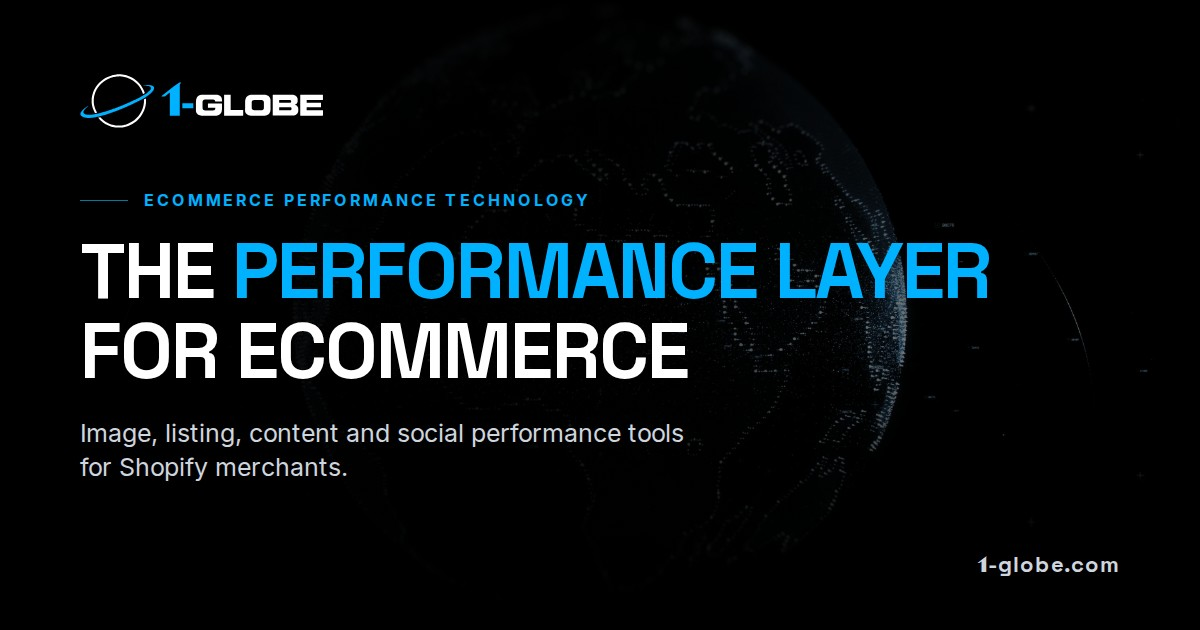
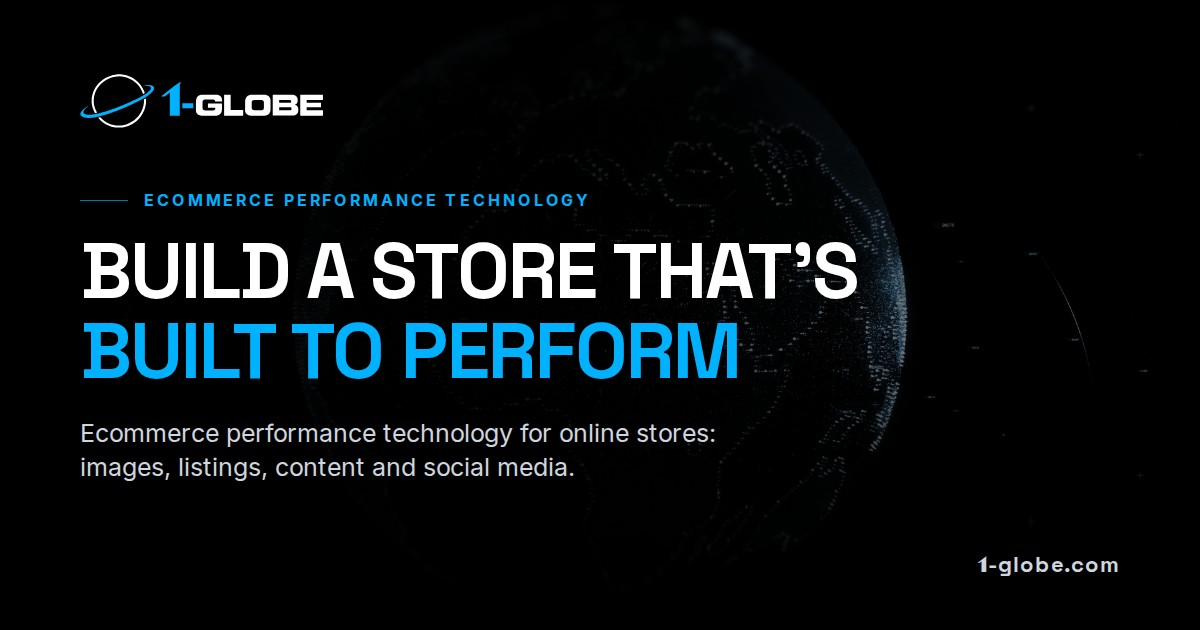
Approved copy update: new headlines, 1-OPTIMIZER live on Shopify, consistent status wording
Claude-Session: https://claude.ai/code/session_01KSFYk5MT1Bqrc69AhoFdrP

Changed region(s): [[0.0617, 0.3619, 0.8325, 0.4825], [0.0617, 0.5127, 0.6167, 0.6032], [0.0617, 0.6635, 0.5858, 0.7841]]

diff --git a/src/app/pricing/page.tsx b/src/app/pricing/page.tsx
@@ -3,6 +3,7 @@ import { buildMetadata } from '@/lib/seo'
 import { Section } from '@/components/shared/Section'
 import Link from 'next/link'
 import { AppName } from '@/components/shared/BrandLogo'
+import { OPTIMIZER_STATUS } from '@/lib/entities'
 
 export const metadata: Metadata = buildMetadata({
   title: '1-OPTIMIZER Pricing',
@@ -20,8 +21,8 @@ export default function PricingPage() {
             <div className="text-left mb-20 max-w-3xl">
               <span className="text-eyebrow block mb-6"><AppName name="1-OPTIMIZER" /></span>
               <h1 className="text-page-title mb-6">
-                Image performance{' '}<br />
-                <span className="text-primary">Without the subscription</span>
+                Pay for{' '}<br />
+                <span className="text-primary">what you use</span>
               </h1>
               <p className="text-lead">
                 Start with 100 free image optimizations. When you need more, buy one-time image credits that never expire.
@@ -48,7 +49,7 @@ export default function PricingPage() {
                 </div>
                 <div className="flex-1"></div>
                 <div className="w-full inline-flex items-center justify-center h-14 font-semibold text-xs bg-secondary text-muted-foreground cursor-not-allowed select-none mt-6">
-                  Coming soon to Shopify
+                  {OPTIMIZER_STATUS.short}
                 </div>
               </div>
 
@@ -67,7 +68,7 @@ export default function PricingPage() {
                   <p className="text-sm font-medium text-muted-foreground">$0.02 / image</p>
                 </div>
                 <div className="w-full inline-flex items-center justify-center h-14 font-semibold text-xs bg-secondary text-muted-foreground cursor-not-allowed select-none mt-6">
-                  Coming soon to Shopify
+                  {OPTIMIZER_STATUS.short}
                 </div>
               </div>
 
@@ -86,7 +87,7 @@ export default function PricingPage() {
                   <p className="text-sm font-medium text-muted-foreground">$0.02 / image</p>
                 </div>
                 <div className="w-full inline-flex items-center justify-center h-14 font-semibold text-xs bg-secondary text-muted-foreground cursor-not-allowed select-none mt-6">
-                  Coming soon to Shopify
+                  {OPTIMIZER_STATUS.short}
                 </div>
               </div>
 
@@ -105,7 +106,7 @@ export default function PricingPage() {
                   <p className="text-sm font-medium text-muted-foreground">$0.018 / image</p>
                 </div>
                 <div className="w-full inline-flex items-center justify-center h-14 font-semibold text-xs bg-secondary text-muted-foreground cursor-not-allowed select-none mt-6">
-                  Coming soon to Shopify
+                  {OPTIMIZER_STATUS.short}
                 </div>
               </div>
 
@@ -116,9 +117,9 @@ export default function PricingPage() {
             </p>
 
             <div className="border-t border-border pt-16 flex flex-col items-center text-center">
-              <h2 className="text-card-title uppercase mb-4"><AppName name="1-OPTIMIZER" /> is <span className="text-primary">coming soon</span></h2>
+              <h2 className="text-card-title uppercase mb-4"><AppName name="1-OPTIMIZER" /> is <span className="text-primary">live on Shopify</span></h2>
               <p className="text-muted-foreground leading-relaxed mb-8 max-w-lg">
-                We are finalizing our Shopify integration. Explore the full capabilities of 1-OPTIMIZER to see how it can help you build a stronger storefront foundation.
+                Installation activation is currently being finalized. Explore the full capabilities of 1-OPTIMIZER to see how it can help you build a stronger storefront foundation.
               </p>
               <Link
                 href="/apps/1-optimizer"

diff --git a/src/components/home/EditorialHero.tsx b/src/components/home/EditorialHero.tsx
@@ -44,17 +44,14 @@ export const EditorialHero: React.FC = () => {
           </div>
           
           <h1 className="font-heading font-bold text-5xl sm:text-[3.5rem] md:text-[4.25rem] lg:text-[4.75rem] tracking-tight leading-[1.05] uppercase text-white relative z-10">
-            THE{' '}<br />
-            <span className="text-primary">PERFORMANCE LAYER</span>{' '}<br />
-            FOR ECOMMERCE
+            BUILD A STORE{' '}<br />
+            THAT&rsquo;S{' '}<span className="text-primary">BUILT</span>{' '}<br />
+            <span className="text-primary">TO PERFORM</span>
           </h1>
 
           <div className="space-y-8 max-w-2xl">
             <p className="text-lg sm:text-xl lg:text-2xl text-neutral-300 font-medium leading-tight">
-              1-GLOBE builds technical tools that make online stores faster, smarter, and easier to grow.
-            </p>
-            <p className="text-xs font-bold text-neutral-400 uppercase tracking-widest border-l-2 border-primary pl-4 py-1">
-              Business first. Technology second. Performance always.
+              Ecommerce performance is rarely about one thing. Your images, product listings, content, storefront and social media presence all work together. 1-GLOBE helps you understand and strengthen the layers that matter — so you can build a stronger foundation instead of solving problems one at a time.
             </p>
           </div>
 
@@ -64,14 +61,14 @@ export const EditorialHero: React.FC = () => {
               href="#ecosystem"
               className="interactive-btn inline-flex items-center justify-center gap-3 h-14 px-8 font-semibold text-[13px] bg-primary text-primary-foreground hover:bg-primary/90 focus-visible:outline-none focus-visible:ring-2 focus-visible:ring-primary w-full sm:w-auto"
             >
-              <span>Explore products</span>
+              <span>Explore the ecosystem</span>
               <ArrowDown className="w-4 h-4" />
             </Link>
             <Link
               href="/apps/1-optimizer"
               className="interactive-btn inline-flex items-center justify-center gap-3 h-14 px-8 font-semibold text-[13px] btn-secondary focus-visible:outline-none focus-visible:ring-2 focus-visible:ring-primary w-full sm:w-auto"
             >
-              <span className="inline-flex items-center gap-2.5">Discover <AppLockup app="optimizer" name="1-OPTIMIZER" className="text-[15px]" /></span>
+              <span className="inline-flex items-center gap-2.5">Explore <AppLockup app="optimizer" name="1-OPTIMIZER" className="text-[15px]" /></span>
               <ArrowRight className="w-4 h-4" />
             </Link>
           </div>

diff --git a/src/app/apps/1-optimizer/page.tsx b/src/app/apps/1-optimizer/page.tsx
@@ -10,7 +10,7 @@ import { EditorialFeatures } from '@/components/feature-page/EditorialFeatures'
 import { ImageProblemSection } from '@/components/feature-page/ImageProblemSection'
 import { AppFaqSection } from '@/components/feature-page/AppFaqSection'
 
-import { ENTITY_PRODUCTS } from '@/lib/entities'
+import { ENTITY_PRODUCTS, OPTIMIZER_STATUS } from '@/lib/entities'
 import { SoftwareAppSchema, AppBreadcrumbSchema } from '@/components/shared/AppSchemaOrg'
 import { AppName } from '@/components/shared/BrandLogo'
 
@@ -40,12 +40,12 @@ export default function ImageOptimizerPage() {
             <span className="hidden sm:inline-block text-xs font-medium text-muted-foreground uppercase tracking-wide">Shopify Image Optimizer</span>
           </div>
         }
-        ctaText="Coming soon to Shopify"
+        ctaText={OPTIMIZER_STATUS.short}
       />
 
       {/* 1. App Hero with AI Pipeline Card */}
       <AppHero
-        headline={<>Faster storefronts{' '}<br />Better product imagery{' '}<br /><span className="text-primary">Stronger foundations</span></>}
+        headline={<>A great product photo{' '}<br />needs <span className="text-primary">great context</span> too</>}
         subhead={
           <div className="space-y-6">
             <p>Marketing drives traffic, but your storefront infrastructure dictates performance. Heavy payloads and missing metadata can undermine your acquisition efforts.</p>
@@ -55,7 +55,7 @@ export default function ImageOptimizerPage() {
             </div>
           </div>
         }
-        primaryCtaText="Coming soon to Shopify"
+        primaryCtaText={OPTIMIZER_STATUS.short}
         secondaryCtaText="See how it works"
         secondaryCtaUrl="#features"
         heroMoment={<AIPipelineHeroCard />}
@@ -80,7 +80,7 @@ export default function ImageOptimizerPage() {
         italicWord="better"
         headlinePart2="performance?"
         subhead="Explore how 1-OPTIMIZER is designed to improve image performance across your catalog."
-        primaryCtaText="Coming soon to Shopify"
+        primaryCtaText={OPTIMIZER_STATUS.short}
         primaryIsLink={false}
         secondaryCtaText="View pricing"
         secondaryCtaUrl="/pricing"

diff --git a/src/app/resources/shopify-image-optimization/page.tsx b/src/app/resources/shopify-image-optimization/page.tsx
@@ -10,6 +10,7 @@ import { CtaBand } from '@/components/shared/CtaBand'
 import * as Accordion from '@radix-ui/react-accordion'
 import { ChevronDown } from 'lucide-react'
 import { AppName } from '@/components/shared/BrandLogo'
+import { OPTIMIZER_STATUS } from '@/lib/entities'
 
 const slug = 'shopify-image-optimization'
 const resource = getResourceBySlug(slug)
@@ -280,7 +281,7 @@ export default function ArticlePage() {
                 The current 1-OPTIMIZER implementation includes compression, resizing, optional WebP conversion, AI-assisted alt text and descriptive filenames for merchant review, keyword suggestions, image editing including background changes, optimization history logs, and an optional storefront performance theme extension. All image modifications require merchant review before being saved to Shopify.
               </p>
               <p className="text-sm font-bold uppercase tracking-widest text-primary mb-8">
-                Note: 1-OPTIMIZER is currently coming soon.
+                Note: {OPTIMIZER_STATUS.full}
               </p>
               <Link href="/apps/1-optimizer" className="interactive-btn inline-flex items-center justify-center h-12 px-8 font-semibold text-xs bg-foreground text-background focus-visible:outline-none focus-visible:ring-2 focus-visible:ring-primary hover:bg-foreground/90 transition-colors">
                 <span>Explore <AppName name="1-OPTIMIZER" /></span>

diff --git a/src/components/home/FaqSection.tsx b/src/components/home/FaqSection.tsx
@@ -3,6 +3,7 @@ import * as Accordion from '@radix-ui/react-accordion'
 import { ChevronDown } from 'lucide-react'
 import Link from 'next/link'
 import { BrandText } from '@/components/shared/BrandLogo'
+import { OPTIMIZER_STATUS } from '@/lib/entities'
 
 export const FaqSection: React.FC = () => {
   const faqs = [
@@ -16,7 +17,7 @@ export const FaqSection: React.FC = () => {
     },
     {
       q: "What products does 1-GLOBE offer?",
-      a: "The 1-GLOBE product ecosystem includes 1-OPTIMIZER for image performance, 1-LISTING for product listing performance, 1-BLOG for content performance and 1-SOCIAL for social media. 1-OPTIMIZER is coming soon to Shopify, 1-LISTING launches next, followed by 1-BLOG and 1-SOCIAL."
+      a: "The 1-GLOBE product ecosystem includes 1-OPTIMIZER for image performance, 1-LISTING for product listing performance, 1-BLOG for content performance and 1-SOCIAL for social media. 1-OPTIMIZER has already launched on Shopify, 1-LISTING launches next, followed by 1-BLOG and 1-SOCIAL."
     },
     {
       q: "What is 1-OPTIMIZER?",
@@ -24,7 +25,7 @@ export const FaqSection: React.FC = () => {
     },
     {
       q: "Is 1-OPTIMIZER available yet?",
-      a: "1-OPTIMIZER is currently in its final stages and is coming to the Shopify App Store soon."
+      a: `1-OPTIMIZER has already launched. ${OPTIMIZER_STATUS.full}`
     },
     {
       q: "Does 1-GLOBE work with Shopify?",

diff --git a/src/app/resources/ecommerce-image-compression-webp/page.tsx b/src/app/resources/ecommerce-image-compression-webp/page.tsx
@@ -10,6 +10,7 @@ import { CtaBand } from '@/components/shared/CtaBand'
 import * as Accordion from '@radix-ui/react-accordion'
 import { ChevronDown } from 'lucide-react'
 import { AppName } from '@/components/shared/BrandLogo'
+import { OPTIMIZER_STATUS } from '@/lib/entities'
 
 const slug = 'ecommerce-image-compression-webp'
 const resource = getResourceBySlug(slug)
@@ -303,7 +304,7 @@ export default function ArticlePage() {
                 The current implementation supports image compression, resizing, WebP conversion, AI-assisted alt text and descriptive filename generation, keyword suggestions, individual processing, and catalog or collection processing. It maintains an optimization history and provides optional theme extension capabilities to monitor storefront performance signals.
               </p>
               <p className="text-sm font-bold uppercase tracking-widest text-primary mb-8">
-                Note: 1-OPTIMIZER is currently coming soon.
+                Note: {OPTIMIZER_STATUS.full}
               </p>
               <Link href="/apps/1-optimizer" className="interactive-btn inline-flex items-center justify-center h-12 px-8 font-semibold text-xs bg-foreground text-background focus-visible:outline-none focus-visible:ring-2 focus-visible:ring-primary hover:bg-foreground/90 transition-colors">
                 <span>Explore <AppName name="1-OPTIMIZER" /></span>

diff --git a/src/app/resources/bulk-image-optimization/page.tsx b/src/app/resources/bulk-image-optimization/page.tsx
@@ -10,6 +10,7 @@ import { CtaBand } from '@/components/shared/CtaBand'
 import * as Accordion from '@radix-ui/react-accordion'
 import { ChevronDown } from 'lucide-react'
 import { AppName } from '@/components/shared/BrandLogo'
+import { OPTIMIZER_STATUS } from '@/lib/entities'
 
 const slug = 'bulk-image-optimization'
 const resource = getResourceBySlug(slug)
@@ -304,7 +305,7 @@ export default function ArticlePage() {
                 The current implementation includes image compression, resizing, WebP conversion, AI-assisted alt text and descriptive filename generation, keyword suggestions, individual or catalog/collection processing, and image editing capabilities. It provides an optimization history and optional theme extension capabilities to evaluate storefront performance signals.
               </p>
               <p className="text-sm font-bold uppercase tracking-widest text-primary mb-8">
-                Note: 1-OPTIMIZER is currently coming soon.
+                Note: {OPTIMIZER_STATUS.full}
               </p>
               <Link href="/apps/1-optimizer" className="interactive-btn inline-flex items-center justify-center h-12 px-8 font-semibold text-xs bg-foreground text-background focus-visible:outline-none focus-visible:ring-2 focus-visible:ring-primary hover:bg-foreground/90 transition-colors">
                 <span>Explore <AppName name="1-OPTIMIZER" /></span>

diff --git a/src/app/resources/product-image-alt-text/page.tsx b/src/app/resources/product-image-alt-text/page.tsx
@@ -10,6 +10,7 @@ import { CtaBand } from '@/components/shared/CtaBand'
 import * as Accordion from '@radix-ui/react-accordion'
 import { ChevronDown } from 'lucide-react'
 import { AppName } from '@/components/shared/BrandLogo'
+import { OPTIMIZER_STATUS } from '@/lib/entities'
 
 const slug = 'product-image-alt-text'
 const resource = getResourceBySlug(slug)
@@ -308,7 +309,7 @@ export default function ArticlePage() {
                 The application analyzes the visual contents of the image and proposes descriptive, non-stuffed alt text. However, generated metadata is strictly subject to merchant review. Store owners must approve the suggestions before they are saved to the catalog, ensuring human oversight remains central to the accessibility workflow.
               </p>
               <p className="text-sm font-bold uppercase tracking-widest text-primary mb-8">
-                Note: 1-OPTIMIZER is currently coming soon.
+                Note: {OPTIMIZER_STATUS.full}
               </p>
               <Link href="/apps/1-optimizer" className="interactive-btn inline-flex items-center justify-center h-12 px-8 font-semibold text-xs bg-foreground text-background focus-visible:outline-none focus-visible:ring-2 focus-visible:ring-primary hover:bg-foreground/90 transition-colors">
                 <span>Explore <AppName name="1-OPTIMIZER" /></span>

diff --git a/src/app/resources/page-payload-critical-resources/page.tsx b/src/app/resources/page-payload-critical-resources/page.tsx
@@ -280,7 +280,7 @@ export default function ArticlePage() {
                 1-GLOBE approaches ecommerce performance as a comprehensive system spanning multiple disciplines, without relying on unsupported guarantees regarding rankings, conversions, or automatic Core Web Vitals success.
               </p>
               <ul className="space-y-4 text-lg text-neutral-400 mb-6">
-                <li><strong className="text-foreground"><AppName name="1-OPTIMIZER" />:</strong> Focused on image performance and source-catalog technical capabilities (currently coming soon).</li>
+                <li><strong className="text-foreground"><AppName name="1-OPTIMIZER" />:</strong> Focused on image performance and source-catalog technical capabilities (live on Shopify).</li>
                 <li><strong className="text-foreground"><AppName name="1-LISTING" />:</strong> Focused on product listing performance for complex discovery environments (launching next).</li>
                 <li><strong className="text-foreground"><AppName name="1-BLOG" />:</strong> Focused on structured content performance (currently launching soon).</li>
                 <li><strong className="text-foreground"><AppName name="1-SOCIAL" />:</strong> Focused on social media: consistent, on-brand posts built from your product catalog (currently launching soon).</li>

diff --git a/src/lib/entities.ts b/src/lib/entities.ts
@@ -21,7 +21,13 @@ export const PERFORMANCE_CATEGORIES = {
   SOCIAL: 'Social Media',
 } as const;
 
-export type ProductStatus = 'available' | 'launching-soon' | 'coming-soon';
+export type ProductStatus = 'live' | 'launching-soon';
+
+// 1-OPTIMIZER launch state. Every page that mentions it reads these two lines.
+export const OPTIMIZER_STATUS = {
+  short: 'Live on Shopify',
+  full: '1-OPTIMIZER is live on Shopify, with installation activation currently being finalized.',
+} as const;
 
 export interface EcosystemProduct {
   id: string;
@@ -50,8 +56,8 @@ export const ENTITY_PRODUCTS: Record<string, EcosystemProduct> = {
     layer: 'Images',
     category: PERFORMANCE_CATEGORIES.IMAGE,
     description: '1-OPTIMIZER is an image performance tool for Shopify stores that helps merchants optimize product images, improve image metadata, and work with image editing and storefront performance tools.',
-    status: 'coming-soon',
-    badge: 'Coming soon to Shopify',
+    status: 'live',
+    badge: OPTIMIZER_STATUS.short,
     href: '/apps/1-optimizer',
     ctaLabel: 'Explore 1-OPTIMIZER',
     '@id': `${siteConfig.url}/apps/1-optimizer#software`,

diff --git a/src/app/page.tsx b/src/app/page.tsx
@@ -13,7 +13,7 @@ import { FaqSection } from '@/components/home/FaqSection'
 
 
 export const metadata: Metadata = buildMetadata({
-  title: '1-GLOBE — Ecommerce Performance Technology for Shopify Stores',
+  title: '1-GLOBE — Ecommerce Performance Technology for Online Stores',
   description: '1-GLOBE builds ecommerce performance technology. Our products help online merchants improve image payloads, content structure, and storefront performance.',
   path: '/',
   absoluteTitle: true,
@@ -42,9 +42,9 @@ export default function HomePage() {
 
       {/* 11: Final CTA */}
       <CtaBand
-        headlinePart1="Make your store"
-        italicWord="perform"
-        headlinePart2="better"
+        headlinePart1="Build"
+        italicWord="every layer"
+        headlinePart2="for performance"
         subhead="Start with the performance problem."
         primaryCtaText="Explore 1-OPTIMIZER"
         primaryCtaUrl="/apps/1-optimizer"

diff --git a/src/app/resources/product-listing-generative-discovery/page.tsx b/src/app/resources/product-listing-generative-discovery/page.tsx
@@ -291,7 +291,7 @@ export default function ArticlePage() {
                 The core product direction is entirely focused on helping merchants organize complex product information, enforce attribute consistency, and streamline the underlying listing structure. 
               </p>
               <p className="text-sm font-bold uppercase tracking-widest text-primary">
-                Note: 1-LISTING is currently launching soon.
+                Note: 1-LISTING is launching next.
               </p>
               <div className="mt-8 flex flex-col sm:flex-row gap-4">
                 <Link href="/" className="interactive-btn inline-flex items-center justify-center h-12 px-8 font-semibold text-xs bg-foreground text-background focus-visible:outline-none focus-visible:ring-2 focus-visible:ring-primary hover:bg-foreground/90 transition-colors">
